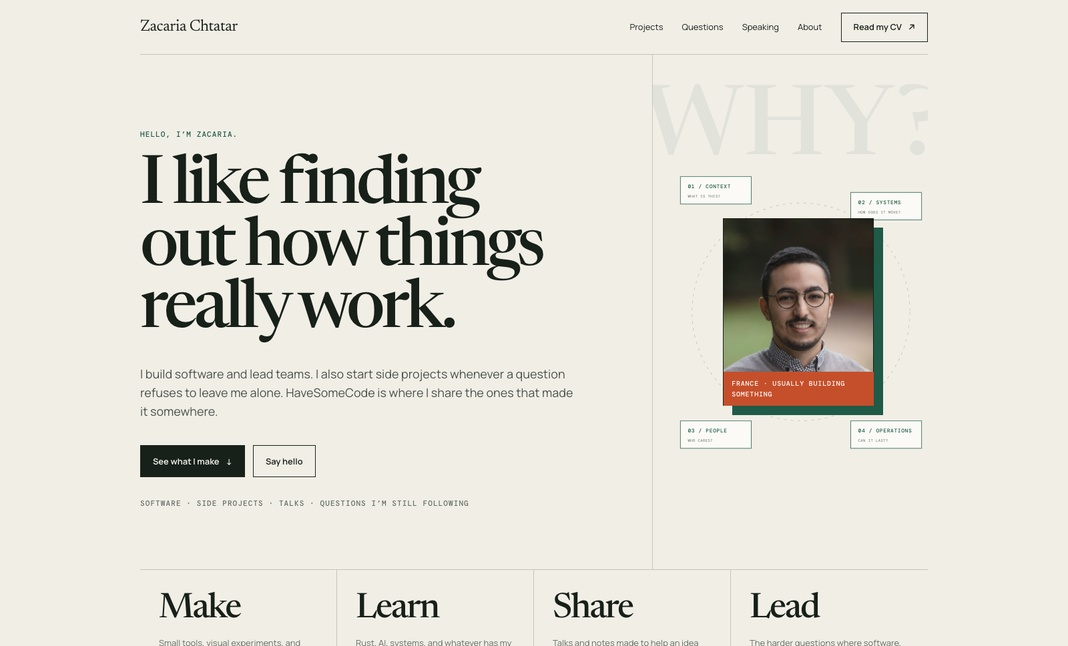
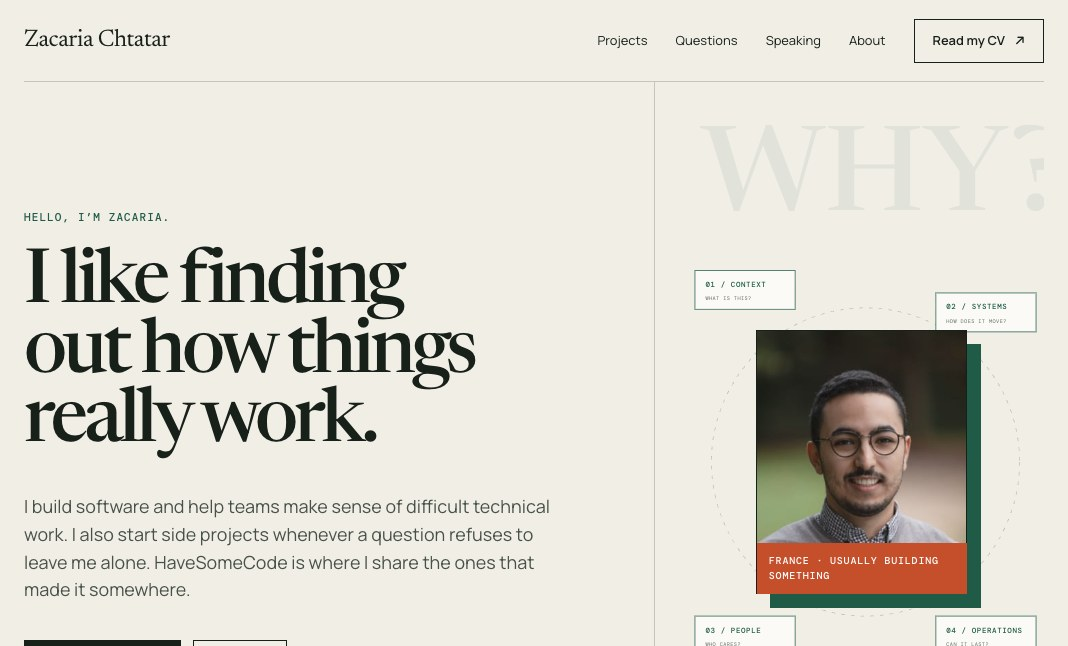
feat: refresh personal-world portfolio

diff --git a/client/index.html b/client/index.html
@@ -90,8 +90,8 @@
           <p class="eyebrow" data-reveal>Hello, I’m Zacaria.</p>
           <h1>I like finding out how things really work.</h1>
           <p class="hero-introduction" data-reveal>
-            I build software and lead teams. I also start side projects whenever a question refuses to leave me alone.
-            HaveSomeCode is where I share the ones that made it somewhere.
+            I build software and help teams make sense of difficult technical work. I also start side projects whenever
+            a question refuses to leave me alone. HaveSomeCode is where I share the ones that made it somewhere.
           </p>
           <div class="hero-actions" data-reveal>
             <a class="button button-primary" href="#projects">See what I make <span aria-hidden="true">↓</span></a>
@@ -242,23 +242,23 @@
               </a>
             </article>
 
-            <article class="project-entry" data-project="worktrees" data-reveal>
+            <article class="project-entry" data-project="kibana" data-reveal>
               <div class="project-entry__copy">
-                <p class="project-index">03 / A deck for my team</p>
-                <h3>Worktrees with AI agents</h3>
+                <p class="project-index">03 / Read-only investigation tool</p>
+                <h3>Kibana Log Investigation MCP</h3>
                 <p>
-                  When several AI agents work at once, Git gets confusing quickly. I made this short deck for my team
-                  to explain how worktrees keep the work isolated and reviewable.
+                  I wanted agents to investigate logs through small, read-only operations instead of clicking through
+                  Kibana. This MCP gives them a structured path from source discovery to focused queries.
                 </p>
-                <p class="project-stack">Git · Worktrees · Codex · Slidev</p>
+                <p class="project-stack">TypeScript · MCP · Kibana · npm</p>
                 <div class="project-links">
-                  <a href="https://zacaria.github.io/havesome-worktrees/" target="_blank" rel="noopener noreferrer">View the slides <span aria-hidden="true">↗</span></a>
-                  <a href="https://github.com/Zacaria/havesome-worktrees" target="_blank" rel="noopener noreferrer">Source <span aria-hidden="true">↗</span></a>
+                  <a href="https://havesomecode.github.io/kibana-mcp-server/" target="_blank" rel="noopener noreferrer">Visit the project <span aria-hidden="true">↗</span></a>
+                  <a href="https://github.com/Havesomecode/kibana-mcp-server" target="_blank" rel="noopener noreferrer">Source <span aria-hidden="true">↗</span></a>
                 </div>
               </div>
-              <a class="project-entry__media" href="https://zacaria.github.io/havesome-worktrees/" target="_blank" rel="noopener noreferrer" aria-label="Open the deck: Worktrees with AI agents">
-                <img src="assets/projects/worktrees.webp" width="1280" height="720" loading="lazy" alt="Title slide for Git Worktrees with AI Agents and Codex" />
-                <span>Open the deck <span aria-hidden="true">↗</span></span>
+              <a class="project-entry__media" href="https://havesomecode.github.io/kibana-mcp-server/" target="_blank" rel="noopener noreferrer" aria-label="Open project: Kibana Log Investigation MCP">
+                <img src="assets/projects/kibana.webp" width="1280" height="800" loading="lazy" alt="Kibana Log Investigation MCP site showing its read-only setup and a synthetic structured query" />
+                <span>Open project <span aria-hidden="true">↗</span></span>
               </a>
             </article>
           </div>
@@ -374,8 +374,8 @@
             <p class="kicker">About</p>
             <h2 id="about-title">I usually have one side project too many.</h2>
             <p>
-              I’m Zacaria. I live in France, lead software teams, and often follow an idea long after it would have
-              been sensible to stop.
+              I’m Zacaria. I live in France, work as a Lead Developer, and often follow an idea long after it would
+              have been sensible to stop.
             </p>
             <p>
               I like Rust, games, visual explanations, and small tools that remove tiny daily annoyances. At work I
@@ -391,7 +391,7 @@
         <div class="shell contact-layout" data-reveal>
           <div>
             <p class="kicker">Come say hello</p>
-            <h2 id="contact-title">I’m looking for Tech Lead challenges.</h2>
+            <h2 id="contact-title">I’m open to Lead Developer roles with a wider technical view.</h2>
             <p>
               If you’re working on something difficult or genuinely interesting, I’d be happy to hear about it. Write
               to me at <a href="mailto:havesomecode@gmail.com">havesomecode@gmail.com</a>.

diff --git a/tests/test_site.py b/tests/test_site.py
@@ -256,7 +256,9 @@ class LandingPageAcceptanceTests(unittest.TestCase):
         source, page = parse_site()
         headings = [text for _, text in page.headings]
 
-        self.assertIn('I’m looking for Tech Lead challenges.', headings)
+        self.assertIn('I’m open to Lead Developer roles with a wider technical view.', headings)
+        for ambiguous_scope in ('lead teams', 'lead software teams', 'Tech Lead challenges'):
+            self.assertNotIn(ambiguous_scope, source)
         self.assertGreaterEqual(source.count('href="mailto:havesomecode@gmail.com"'), 2)
         self.assertIn('havesomecode@gmail.com', source)
 
@@ -300,14 +302,14 @@ class LandingPageAcceptanceTests(unittest.TestCase):
         for node in ('context', 'systems', 'people', 'operations'):
             self.assertIn(f'data-system-node="{node}"', source)
         self.assertEqual(source.count('<article class="project-entry"'), 3)
-        for project in ('float', 'pathfinding', 'worktrees'):
+        for project in ('float', 'pathfinding', 'kibana'):
             self.assertIn(f'data-project="{project}"', source)
 
     def test_showable_projects_have_local_images_and_live_source_links(self) -> None:
         source, page = parse_site()
 
         self.assertNotIn('class="case-diagram', source)
-        for project in ('float', 'pathfinding', 'worktrees'):
+        for project in ('float', 'pathfinding', 'kibana'):
             asset = CLIENT / 'assets' / 'projects' / f'{project}.webp'
             self.assertTrue(asset.is_file(), asset)
             image = next(item for item in page.images if item.get('src') == f'assets/projects/{project}.webp')
@@ -315,16 +317,16 @@ class LandingPageAcceptanceTests(unittest.TestCase):
         for href in (
             'https://zacaria.github.io/float/',
             'https://pathfinding-client.vercel.app/',
-            'https://zacaria.github.io/havesome-worktrees/',
+            'https://havesomecode.github.io/kibana-mcp-server/',
             'https://github.com/Zacaria/float',
             'https://github.com/Zacaria/pathfinding-client',
-            'https://github.com/Zacaria/havesome-worktrees',
+            'https://github.com/Havesomecode/kibana-mcp-server',
         ):
             self.assertIn(f'href="{href}"', source)
         for accessible_name in (
             'Open project: Float',
             'Open experiment: Pathfinding',
-            'Open the deck: Worktrees with AI agents',
+            'Open project: Kibana Log Investigation MCP',
         ):
             self.assertIn(f'aria-label="{accessible_name}"', source)
 
@@ -437,7 +439,7 @@ class LandingPageAcceptanceTests(unittest.TestCase):
         sitemap = (CLIENT / 'sitemap.xml').read_text(encoding='utf-8')
 
         self.assertIn('<loc>https://www.havesomecode.io/</loc>', sitemap)
-        self.assertIn('<lastmod>2026-08-01</lastmod>', sitemap)
+        self.assertIn('<lastmod>2026-08-06</lastmod>', sitemap)
 
     def test_vercel_release_contract_is_explicit(self) -> None:
         self.assertTrue(VERCEL_CONFIG.is_file(), 'vercel.json must define the production release')

diff --git a/submission/README.md b/submission/README.md
@@ -19,9 +19,9 @@ A warm editorial home for Zacaria Chtatar’s software, side projects, talks, an
 
 HaveSomeCode began as a professional portfolio full of outcomes and case studies. It was polished, but it sounded like a résumé. The final concept makes a deliberate channel choice: the CV carries evidence and chronology; the landing page welcomes people into Zacaria’s world.
 
-The opening decision field turns one persistent habit—asking why—into a map of context, systems, people, and operations. Four doorways introduce what Zacaria likes to make, learn, share, and lead. The main chapter features three real public projects: Float, an always-on-top image utility; an interactive Rust/WASM pathfinding visualizer; and a short deck about using Git worktrees with AI agents.
+The opening decision field turns one persistent habit—asking why—into a map of context, systems, people, and operations. Four doorways introduce what Zacaria likes to make, learn, share, and lead. The main chapter features three real public projects: Float, an always-on-top image utility; an interactive Rust/WASM pathfinding visualizer; and a read-only MCP for structured Kibana log investigations.
 
-The second interactive chapter is built from questions Zacaria returns to rather than leadership claims. A native-details interface lets visitors explore how he looks at systems, explanations, people, and experiments. The page closes with a public talk, personal interests, a direct Tech Lead invitation, and a visible email address.
+The second interactive chapter is built from questions Zacaria returns to rather than leadership claims. A native-details interface lets visitors explore how he looks at systems, explanations, people, and experiments. The page closes with a public talk, personal interests, a direct Lead Developer invitation, and a visible email address.
 
 The visual identity remains **Editorial Authority**: warm paper, dark ink, forest green, clay accents, square geometry, large Newsreader typography, and restrained technical labels. The tone is personal, curious, and calm.
 
@@ -31,7 +31,7 @@ The visual identity remains **Editorial Authority**: warm paper, dark ink, fores
    The site refuses the common personal-brand pattern of repeating résumé proof on every channel. Its content is selected to create recognition and curiosity.
 
 2. **Real things, not project placeholders**  
-   Float and Pathfinding are working public experiences. The Worktrees deck is live teaching material. Every project image is a capture from the actual project.
+   Float, Pathfinding, and Kibana Log Investigation MCP are working public experiences. Every project image is a capture from the actual project; the Kibana example uses explicitly synthetic data.
 
 3. **Curiosity as the visual language**  
    The hero map and question matrix make Zacaria’s habits visible without terminal chrome, decorative code, generic particles, or an unrelated 3D scene.
@@ -88,7 +88,7 @@ The full benchmark and source research are in [`../AWARD-READINESS.md`](../AWARD
 | Asset | Purpose |
 |---|---|
 | [`assets/awwwards-1600x1200.png`](assets/awwwards-1600x1200.png) | Exact 1600 × 1200 Awwwards principal image |
-| [`assets/cssda-1068x646.jpg`](assets/cssda-1068x646.jpg) | Exact 1068 × 646 CSSDA image; 89,383 bytes |
+| [`assets/cssda-1068x646.jpg`](assets/cssda-1068x646.jpg) | Exact 1068 × 646 CSSDA image; 81,499 bytes |
 | [`assets/desktop-hero.png`](assets/desktop-hero.png) | Desktop first viewport |
 | [`assets/mobile-hero.png`](assets/mobile-hero.png) | Mobile first viewport |
 | [`assets/project-float.png`](assets/project-float.png) | Real maker-project chapter |
@@ -127,8 +127,7 @@ make build
 ## Before a real submission
 
 - [ ] Deploy the current `dist/` build to production.
-- [ ] Apply the prepared CloudFront custom error response change in the infrastructure repository.
-- [ ] Verify the production URL after CDN invalidation.
+- [ ] Verify the production URL after the Vercel deployment.
 - [ ] Run Lighthouse against production over HTTPS.
 - [ ] Confirm every live project, email, CV, LinkedIn, GitHub, and talk destination from production.
 - [x] Confirm portrait ownership, project-capture reproduction rights, and human collaborators.
@@ -137,4 +136,4 @@ make build
 - [ ] Reconfirm each platform's current form limits and image specification at checkout.
 - [ ] Confirm the final title, description, credits, and exact platform screenshot from [`platform-copy.md`](platform-copy.md).
 
-No external award submission, payment, deployment, commit, push, or infrastructure apply has been performed.
+No external award submission, payment, push, or infrastructure apply has been performed.

diff --git a/AWARD-READINESS.md b/AWARD-READINESS.md
@@ -69,9 +69,9 @@ The site before this rework was estimated against the official Awwwards weights:
 - Lighthouse desktop: **100 / 100 / 100 / 100**.
 - Total Blocking Time: **0 ms** on both audits.
 - Cumulative Layout Shift: **0** on both audits.
-- Acceptance suite: **27 tests passing**.
+- Acceptance suite: **30 tests passing**.
 - HTML validation, JavaScript syntax, design-token validation, clean build, and `client`/`dist` parity: **passing**.
-- Main HTML/CSS/JavaScript payload: **12.5 KB gzipped**.
+- Main HTML/CSS/JavaScript payload: **12.6 KiB gzipped**.
 - Runtime dependencies: **none**.
 
 The weighted 8.64 award score remains a reasoned readiness target rather than a jury result. Only an external jury can assign an official score or award.
@@ -82,7 +82,7 @@ The site should welcome visitors into Zacaria’s world without asking every sec
 
 1. **Hero — follow the question.** A bespoke map connects context, systems, people, and operations around the portrait and a simple curiosity-led introduction. Pointer response is subtle; the non-JavaScript state remains complete.
 2. **World index.** Make, Learn, Share, and Lead are doorways into the site rather than performance metrics.
-3. **Things made.** Float, Pathfinding, and a Worktrees deck appear as large editorial project chapters using captures from the real live projects. Copy explains why each exists rather than presenting it as an accomplishment.
+3. **Things made.** Float, Pathfinding, and Kibana Log Investigation MCP appear as large editorial project chapters using captures from the real live projects. Copy explains why each exists rather than presenting it as an accomplishment.
 4. **Question matrix.** Recurring questions become native disclosures with a small interactive map. Without JavaScript, every answer remains open and readable.
 5. **Speaking and About.** A public talk sits beside personal details, side-project habits, and current interests before the direct email invitation.
 

diff --git a/submission/platform-copy.md b/submission/platform-copy.md
@@ -28,7 +28,7 @@ Prepared from the published Awwwards and CSS Design Awards requirements checked 
 - **Description:** An editorial corner for Zacaria Chtatar’s software, side projects, talks, and questions worth following. (**104/130 characters**)
 - **Suggested category:** Portfolio
 - **Suggested feature tags:** Animated · One Page · Typographic
-- **Screenshot:** [`assets/cssda-1068x646.jpg`](assets/cssda-1068x646.jpg), exactly 1068 × 646 px, 89,383 bytes—within the published 150 KB limit
+- **Screenshot:** [`assets/cssda-1068x646.jpg`](assets/cssda-1068x646.jpg), exactly 1068 × 646 px, 81,499 bytes—within the published 150 KB limit
 
 ## Credits and rights
 
